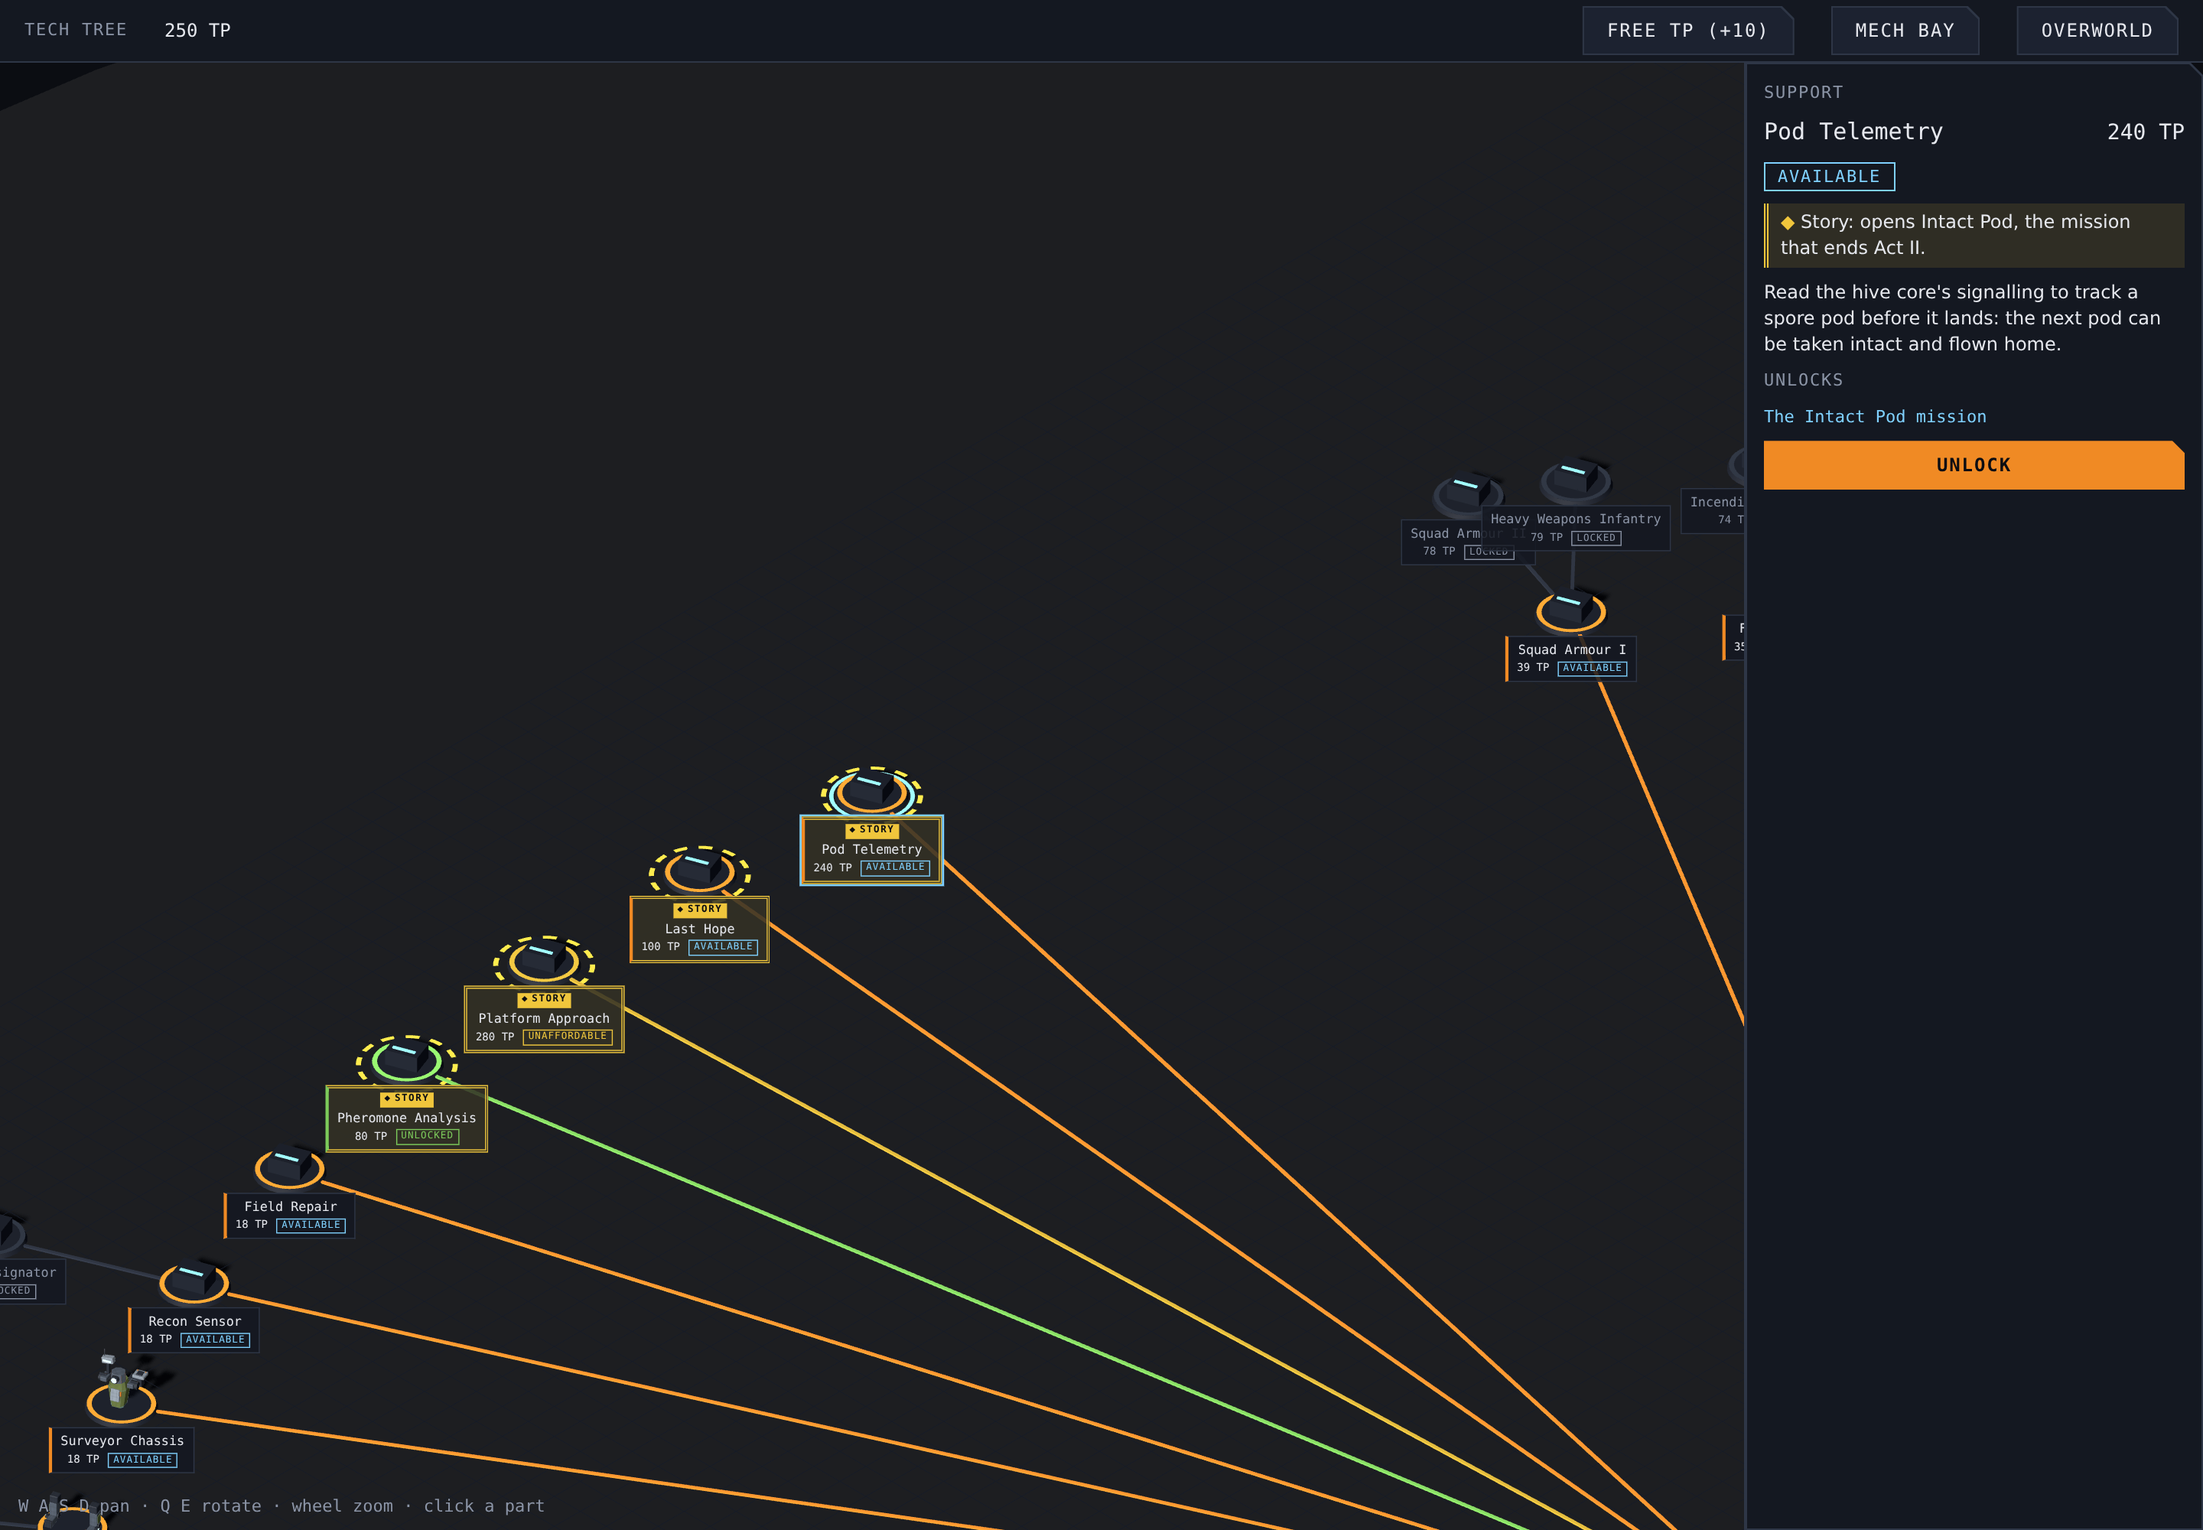
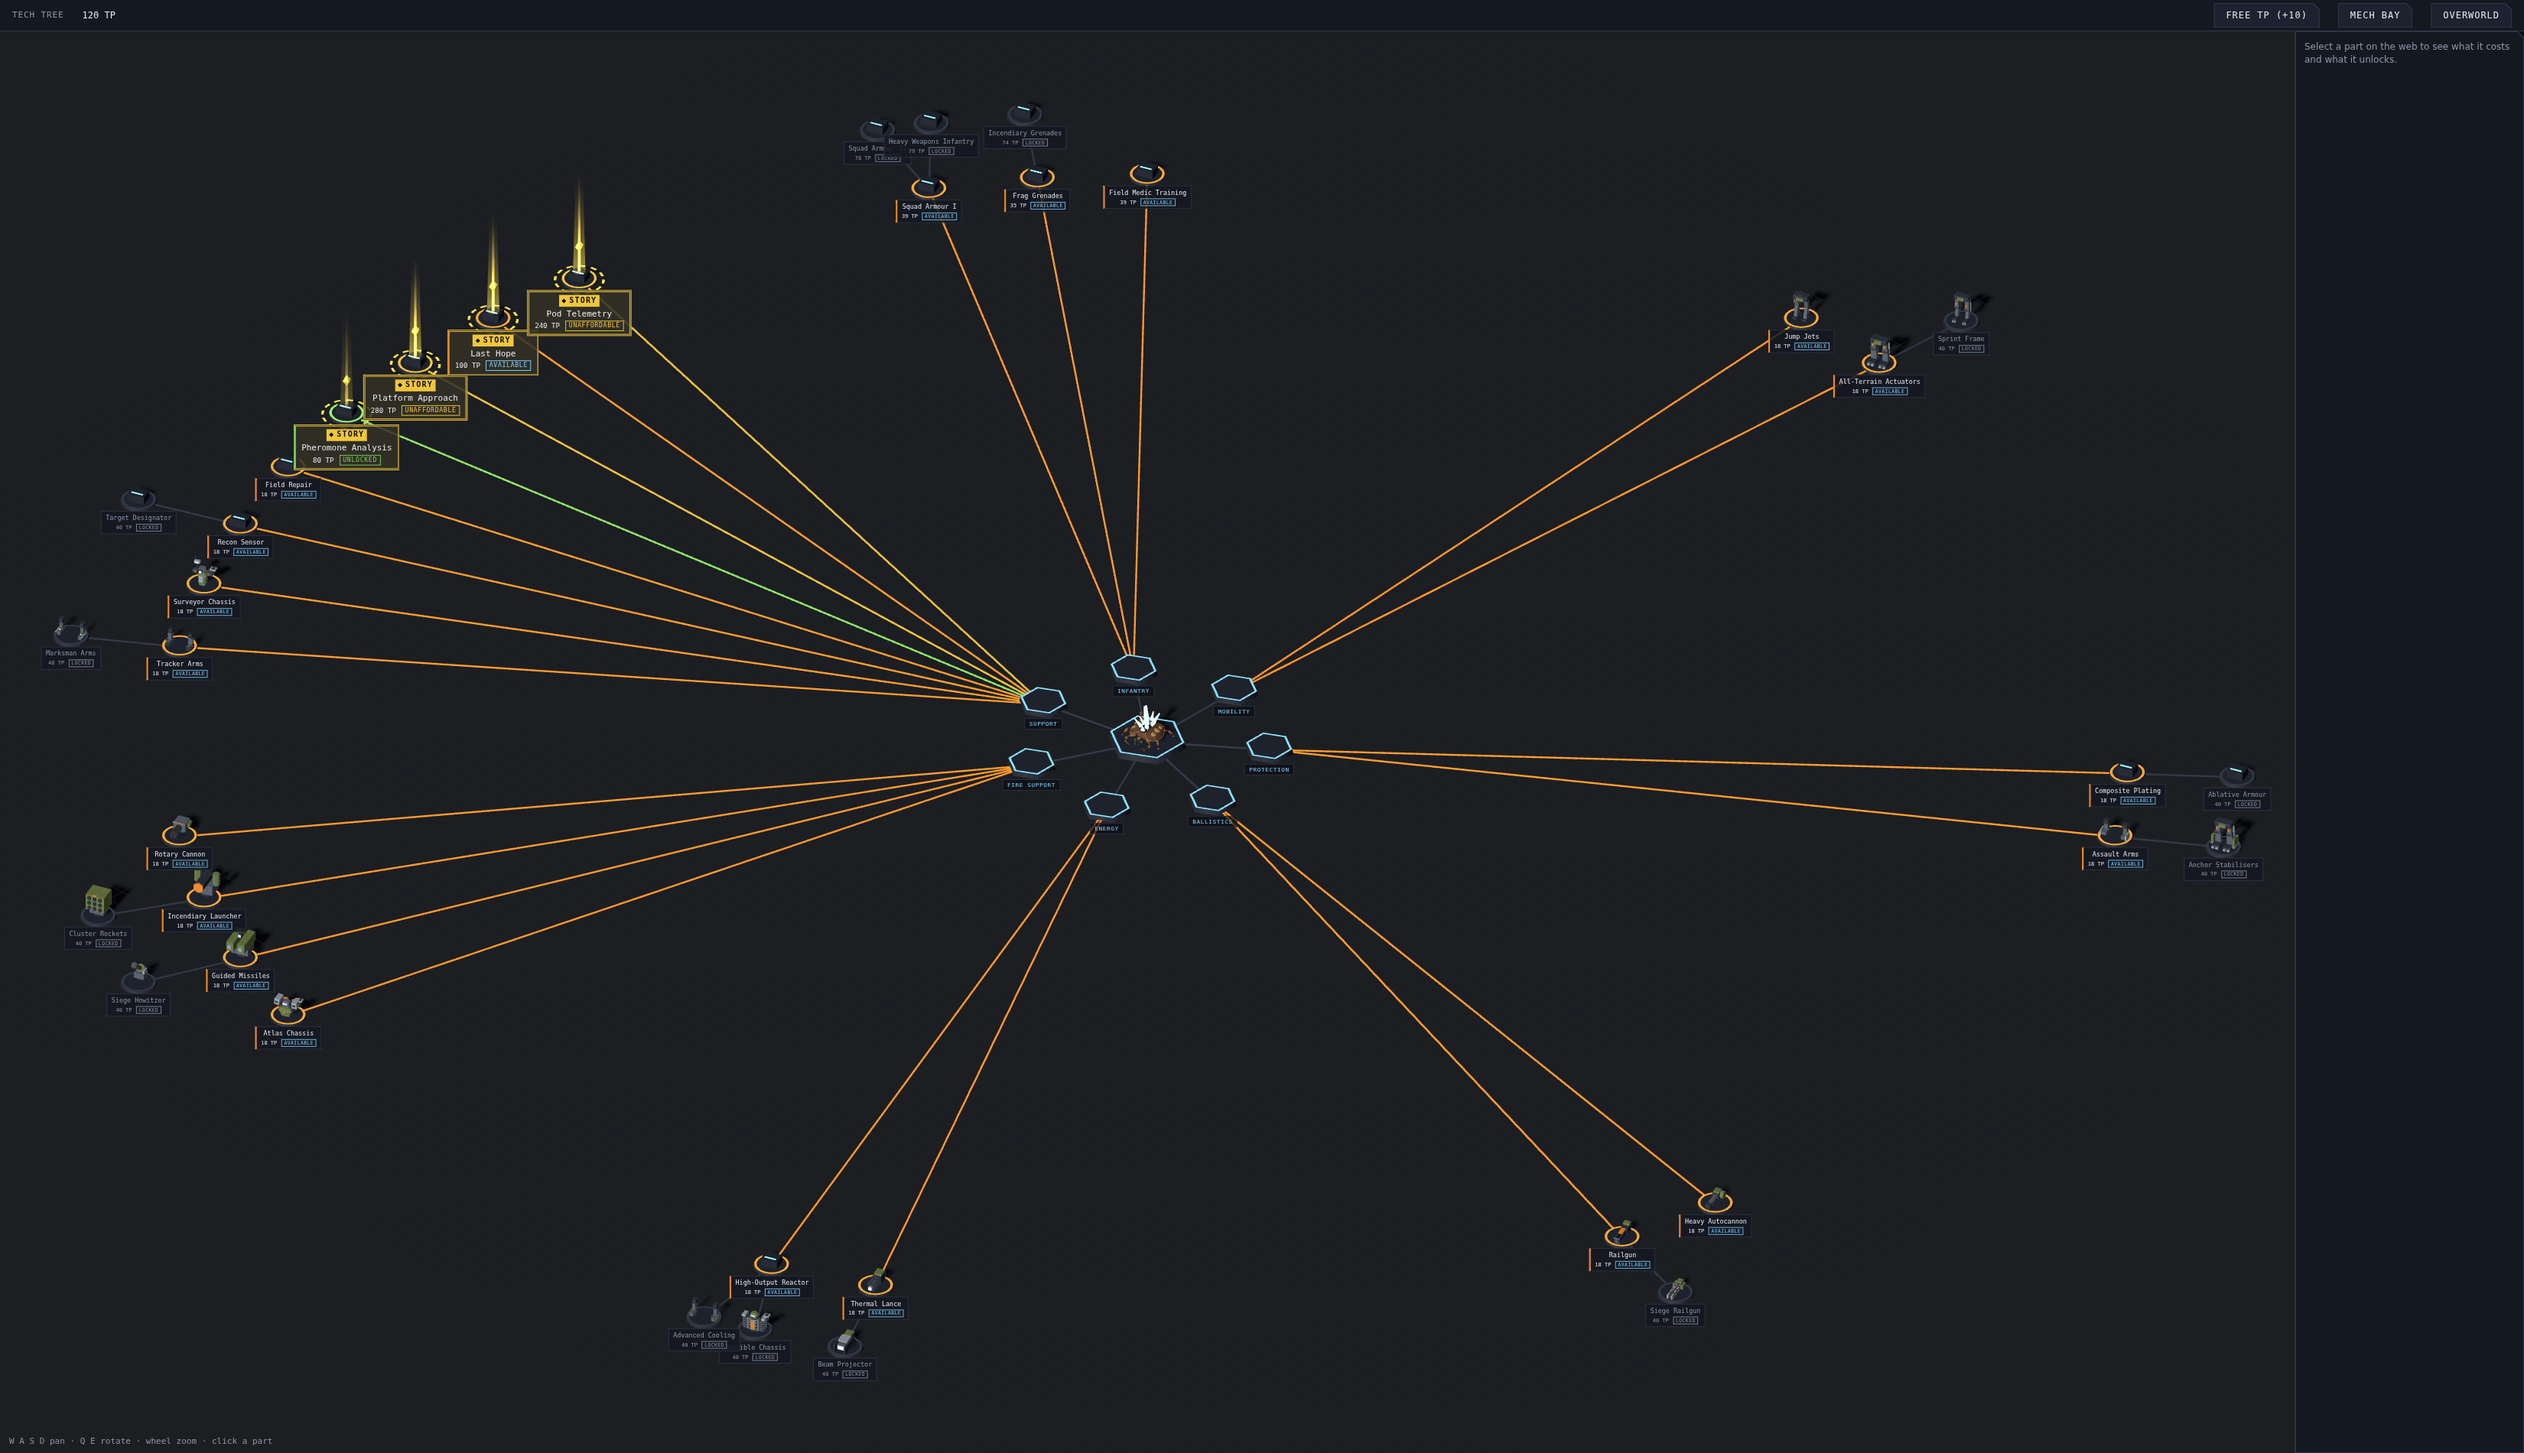
docs(ui): record the story beacon and re-render the tech web at the default zoom (#1237)
Claude-Session: https://claude.ai/code/session_019NPdrek8EeMHSpCNp7fD74

diff --git a/docs/design/architecture.md b/docs/design/architecture.md
@@ -131,11 +131,12 @@ Add domains via ADR when needed. Don't create `utils` dumping grounds.
   unlockTech ──► onTechUnlocked ──► flags ──► (next tick) story pins
   ```
 
-- **Story research stands out on the tech tree** (#1237). Whether a node moves the story on is a fact of its kind: `TECH_NODE_KIND_TRAITS` (`tech/model/tech-node-kind-traits.ts`) says `intel` and `story` do, so `isStoryTechNode` finds the three Intel projects and Last Hope without naming an id. The tech tree screen marks such a label `data-story="true"` and gives it a filled ◆ STORY tag and a double frame in `--ui-story` (the warn gold) in every status; the status bar and badge still show inside the frame. The scene builder puts a crown of gold dashes round its pedestal. The detail panel's story line is `techStoryText` over `TECH_STORY_NOTES` (`ui/data/`), keyed by the flag the story pins on. A data test checks each note against `STORY_MISSION_TITLES`, `STORY_SPINE` and the mission's `pinWhen`. See [`tech-tree-story-nodes.png`](tech-tree-story-nodes.png), every story node at once, and [`tech-tree-story-nodes-reveal.png`](tech-tree-story-nodes-reveal.png), the day the spore sample comes home.
+- **Story research stands out on the tech tree** (#1237). Whether a node moves the story on is a fact of its kind: `TECH_NODE_KIND_TRAITS` (`tech/model/tech-node-kind-traits.ts`) says `intel` and `story` do, so `isStoryTechNode` finds the three Intel projects and Last Hope without naming an id. The tech tree screen marks such a label `data-story="true"` and gives it a filled ◆ STORY tag and a double frame in `--ui-story` (the warn gold) in every status; the status bar and badge still show inside the frame. It places the label `STORY_LABEL_SCALE` (1.3) times an ordinary label's scale at every zoom, so at the default zoom (24, where labels sit at their 0.7 floor) a story label is drawn at 0.91 and its tag reads. The scene builder puts a crown of gold dashes round its pedestal and a `TechStoryBeacon` (`graphics/view/tech-story-beacon.ts`) over it: a gold light shaft `STORY_BEACON_HEIGHT` (7) tall, four times the tallest model, with a gold diamond turning above the model. The shaft is two open cylinders in the built-in unlit material, blended additively and faded by vertex alpha, so no fragment runs a loop under SwiftShader. It writes no depth and is not a pick solid, so a click through it reaches the node behind (a test aims a ray through a shaft at a neighbour and checks that the neighbour is picked). Once the node is researched the beacon dims to `STORY_BEACON_DIM` (0.4), so the eye goes to the story work still open. The detail panel's story line is `techStoryText` over `TECH_STORY_NOTES` (`ui/data/`), keyed by the flag the story pins on. A data test checks each note against `STORY_MISSION_TITLES`, `STORY_SPINE` and the mission's `pinWhen`. See [`tech-tree-story-nodes.png`](tech-tree-story-nodes.png): the whole web at the default zoom with every story node shown, Pheromone Analysis researched and its beacon dimmed. The web spans about 2900 × 1650 px at that zoom, so it was rendered in a 3300 × 1900 window; a laptop window at the default zoom shows the core and the family plinths, and no node. See also [`tech-tree-story-nodes-reveal.png`](tech-tree-story-nodes-reveal.png), the day the spore sample comes home: Pheromone Analysis focused at the default zoom and selected, with the panel's story line (2× pixel ratio).
 
   ```
-  node.kind ──► TECH_NODE_KIND_TRAITS[kind].advancesStory ──► label: tag + double frame   (screen)
-                                                         ├─► pedestal: crown of dashes   (scene builder)
+  node.kind ──► TECH_NODE_KIND_TRAITS[kind].advancesStory ──► label: tag + double frame, 1.3× scale   (screen)
+                                                         ├─► pedestal: crown of dashes + beacon     (scene builder)
+                                                         │     beacon dimmed when unlocked; never picked
                                                          └─► panel: techStoryText
   node.effects (flag) ──► TECH_STORY_NOTES[flag] ──► "Story: opens Live Specimen, the mission that ends Act I."
   ```
